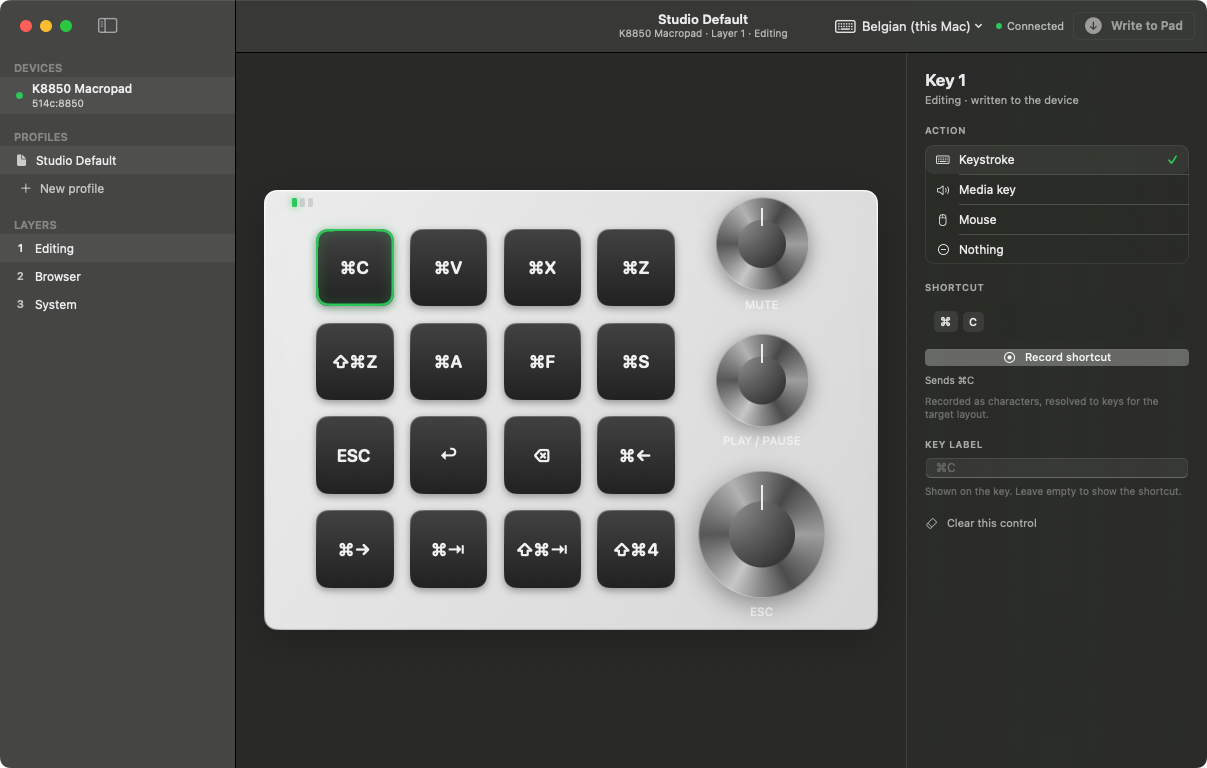
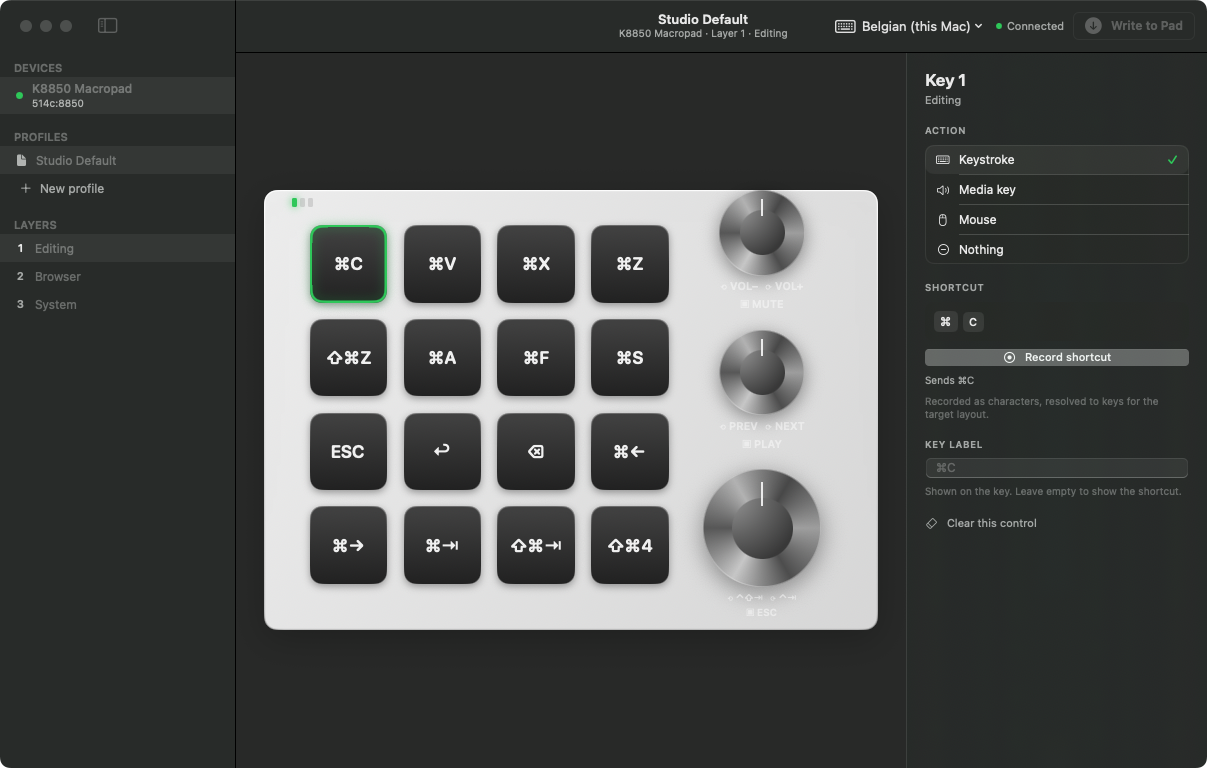
Knob turn labels, write-state expiry, clear probe
- Every encoder action is visible on the pad: turn-left and turn-right captions
  above the press caption, using compact media names (VOL+/MUTE/PREV).
- 'written to the device' only shows after a write and is cleared by any binding
  change, layer switch or profile switch. The inspector subtitle was previously
  hardcoded to claim it.
- Tools/clearprobe: writes four candidate 'clear' encodings to keys 1-4 so the
  working one can be identified on hardware.

diff --git a/Sources/Views.swift b/Sources/Views.swift
@@ -13,7 +13,9 @@ final class AppState: ObservableObject {
     private var cancellables = Set<AnyCancellable>()
 
     @Published var profile: PadProfile
-    @Published var layerIndex: Int = 0
+    @Published var layerIndex: Int = 0 {
+        didSet { if layerIndex != oldValue { writer.reset() } }
+    }
     @Published var selection: ControlID? = .button(0)
     @Published var selectedDeviceID: String?
 
@@ -76,6 +78,7 @@ final class AppState: ObservableObject {
     func set(_ c: ControlID, _ a: Action) {
         guard layerIndex < profile.layers.count else { return }
         profile.layers[layerIndex].set(c, a)
+        writer.reset()
         persistSoon()
     }
 
@@ -94,6 +97,7 @@ final class AppState: ObservableObject {
         profile = p
         layerIndex = 0
         selection = .button(0)
+        writer.reset()
     }
 
     func writeToPad() {
@@ -107,11 +111,13 @@ final class AppState: ObservableObject {
         guard layerIndex < profile.layers.count else { return }
         profile.layers[layerIndex].bindings.removeAll()
         store.save(profile)
+        writer.reset()
     }
 
     func clearProfile() {
         for i in profile.layers.indices { profile.layers[i].bindings.removeAll() }
         store.save(profile)
+        writer.reset()
     }
 
     func renameCurrentLayer(_ name: String) {
@@ -503,7 +509,7 @@ struct PadPlateView: View {
                 }
                 .frame(width: pad * 0.88)
                 .frame(width: pad, height: pad * 0.70, alignment: .bottom)
-                .padding(.bottom, pad * 0.018)
+                .padding(.bottom, pad * 0.034)
                 if app.model.hasLayerLEDs {
                     layerLEDs(pad)
                         .padding(.leading, pad * 0.045)
@@ -609,30 +615,44 @@ struct PadPlateView: View {
     }
 
     func knobColumn(_ pad: CGFloat) -> some View {
-        let width = pad * 0.165
-        return VStack(spacing: width * 0.22) {
+        let width = pad * 0.152
+        return VStack(spacing: width * 0.20) {
             ForEach(0..<app.model.knobCount, id: \.self) { k in
                 let ratio = k < app.model.knobs.count ? app.model.knobs[k].diameterRatio : 1.0
-                VStack(spacing: width * 0.07) {
+                VStack(spacing: width * 0.05) {
                     knob(index: k, dia: width * ratio, selected: selectedPart(k))
-                    let caption = knobCaption(k)
-                    if !caption.isEmpty {
-                        Text(caption)
-                            .font(.system(size: width * 0.115, weight: .medium))
-                            .foregroundStyle(.secondary)
+                    // Both turn directions, then the press, so no encoder action
+                    // is invisible.
+                    HStack(spacing: width * 0.06) {
+                        Text("⟲ \(knobLabel(k, .ccw))")
+                        Text("⟳ \(knobLabel(k, .cw))")
+                    }
+                    .font(.system(size: width * 0.115, weight: .semibold))
+                    .foregroundStyle(.primary.opacity(0.55))
+                    .lineLimit(1)
+                    .minimumScaleFactor(0.5)
+                    .frame(maxWidth: width * 1.5)
+
+                    let press = knobLabel(k, .press)
+                    if !press.isEmpty {
+                        Text("▣ \(press)")
+                            .font(.system(size: width * 0.115, weight: .semibold))
+                            .foregroundStyle(.primary.opacity(0.55))
                             .lineLimit(1)
-                            .minimumScaleFactor(0.6)
-                            .frame(maxWidth: width * 1.15)
+                            .minimumScaleFactor(0.5)
+                            .frame(maxWidth: width * 1.3)
                     }
                 }
             }
         }
     }
 
-    /// What the knob's press does, printed beside it so the encoder is not a blank.
-    func knobCaption(_ k: Int) -> String {
-        let a = app.action(.knob(k, .press))
-        return a.isEmpty ? "" : a.keyFace.uppercased()
+    /// What one encoder action does, as a short label for the pad drawing.
+    func knobLabel(_ k: Int, _ part: KnobPart) -> String {
+        let a = app.action(.knob(k, part))
+        if a.isEmpty { return "—" }
+        if a.kind == .media, let mk = MediaKey(rawValue: a.mediaKey) { return mk.shortTitle }
+        return a.keyFace.uppercased()
     }
 
     func selectedPart(_ k: Int) -> KnobPart? {

diff --git a/Tools/clearprobe/main.swift b/Tools/clearprobe/main.swift
@@ -1,0 +1,54 @@
+import Foundation
+
+// Diagnostic: bind keys 1-4 to a,b,c,d, then try four different "clear"
+// encodings, one per key. Press the keys afterwards; any that still type a
+// letter tells us that encoding does not clear.
+//
+//   key 1  letter 'a'  then  bind type 0, count 1, entry 00 00 00
+//   key 2  letter 'b'  then  bind type 1, count 1, entry 00 00 00   (current)
+//   key 3  letter 'c'  then  bind type 1, count 0
+//   key 4  letter 'd'  then  bind type 0, count 0
+
+let t = HIDTransport()
+RunLoop.main.run(until: Date().addingTimeInterval(2.0))
+guard let dev = t.devices.first(where: { $0.isWritable }) else {
+    print("no writable macropad found"); exit(1)
+}
+print("device:", dev.model?.displayName ?? dev.name)
+
+func pad(_ b: [UInt8]) -> [UInt8] {
+    var out = [UInt8](repeating: 0, count: 65)
+    for (i, x) in b.enumerated() where i < 65 { out[i] = x }
+    return out
+}
+
+let commit: [UInt8] = [0x03, 0xFD, 0xFE, 0xFF]
+let layer: UInt8 = 1
+
+// 1. known-good bindings: a, b, c, d  (HID 0x04..0x07)
+for i in 0..<4 {
+    let rec: [UInt8] = [0x03, 0xFD, UInt8(i + 1), layer, 0x01, 0x00, 0x01, 0x00, 0x00, UInt8(0x04 + i)]
+    try! t.send(pad(rec), to: dev.id); Thread.sleep(forTimeInterval: 0.05)
+    try! t.send(pad(commit), to: dev.id); Thread.sleep(forTimeInterval: 0.05)
+}
+print("bound keys 1-4 to a b c d")
+
+// 2. the four candidate clear encodings
+let variants: [(String, [UInt8])] = [
+    ("type0 count1 usage0", [0x03, 0xFD, 0x01, layer, 0x00, 0x00, 0x01, 0x00, 0x00, 0x00]),
+    ("type1 count1 usage0", [0x03, 0xFD, 0x02, layer, 0x01, 0x00, 0x01, 0x00, 0x00, 0x00]),
+    ("type1 count0",        [0x03, 0xFD, 0x03, layer, 0x01, 0x00, 0x00]),
+    ("type0 count0",        [0x03, 0xFD, 0x04, layer, 0x00, 0x00, 0x00]),
+]
+for (name, rec) in variants {
+    try! t.send(pad(rec), to: dev.id); Thread.sleep(forTimeInterval: 0.05)
+    try! t.send(pad(commit), to: dev.id); Thread.sleep(forTimeInterval: 0.05)
+    print("  key", rec[2], "<-", name, rec.map { String(format: "%02x", $0) }.joined(separator: " "))
+}
+
+// 3. second pass so nothing is lost to timing
+for (_, rec) in variants {
+    try! t.send(pad(rec), to: dev.id); Thread.sleep(forTimeInterval: 0.05)
+    try! t.send(pad(commit), to: dev.id); Thread.sleep(forTimeInterval: 0.05)
+}
+print("done — press keys 1-4 and report which still type a letter")

diff --git a/Sources/Inspector.swift b/Sources/Inspector.swift
@@ -119,8 +119,17 @@ struct InspectorView: View {
         VStack(alignment: .leading, spacing: 3) {
             Text(control?.title ?? "Nothing selected")
                 .font(.system(size: 17, weight: .semibold))
-            Text("\(app.profile.layers.indices.contains(app.layerIndex) ? app.profile.layers[app.layerIndex].name : "Layer") · written to the device")
-                .font(.system(size: 11)).foregroundStyle(.secondary)
+            HStack(spacing: 5) {
+                Text(app.profile.layers.indices.contains(app.layerIndex)
+                     ? app.profile.layers[app.layerIndex].name : "Layer")
+                if case .finished = app.writer.phase {
+                    Text("·").foregroundStyle(.tertiary)
+                    Label("written to the device", systemImage: "checkmark.circle.fill")
+                        .foregroundStyle(SidebarView.green)
+                }
+            }
+            .font(.system(size: 11))
+            .foregroundStyle(.secondary)
         }
     }
 

diff --git a/Sources/Model.swift b/Sources/Model.swift
@@ -165,6 +165,23 @@ enum MediaKey: String, Codable, CaseIterable, Identifiable {
         }
     }
 
+    /// Compact form for tight places (knob captions draw on the pad itself).
+    var shortTitle: String {
+        switch self {
+        case .volumeUp:       return "VOL+"
+        case .volumeDown:     return "VOL−"
+        case .mute:           return "MUTE"
+        case .playPause:      return "PLAY"
+        case .nextTrack:      return "NEXT"
+        case .previousTrack:  return "PREV"
+        case .stop:           return "STOP"
+        case .brightnessUp:   return "BRI+"
+        case .brightnessDown: return "BRI−"
+        case .calculator:     return "CALC"
+        case .screenLock:     return "LOCK"
+        }
+    }
+
     /// SF Symbol drawn on the key face, distinct per action.
     var symbol: String {
         switch self {

diff --git a/Sources/Driver.swift b/Sources/Driver.swift
@@ -327,6 +327,9 @@ final class PadWriter: ObservableObject {
 
     @Published private(set) var phase: Phase = .idle
 
+    /// Drops a "written" result so it cannot outlive the state it described.
+    func reset() { phase = .idle }
+
     func write(profile: PadProfile, model: DeviceModel, transport: HIDTransport, deviceID: String) {
         phase = .preparing
         guard let driver = DriverRegistry.driver(for: model) else {
